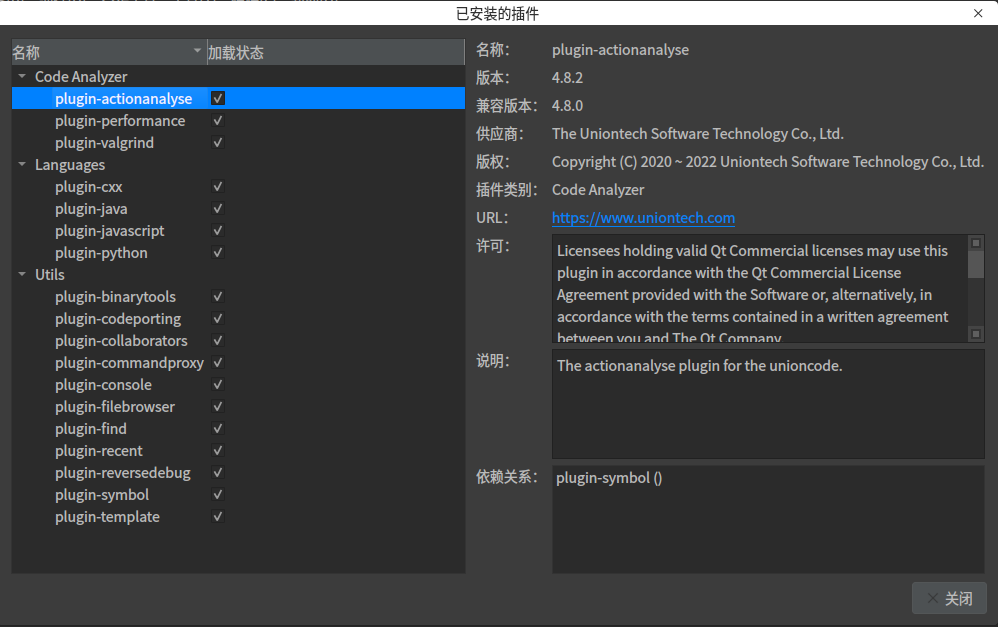
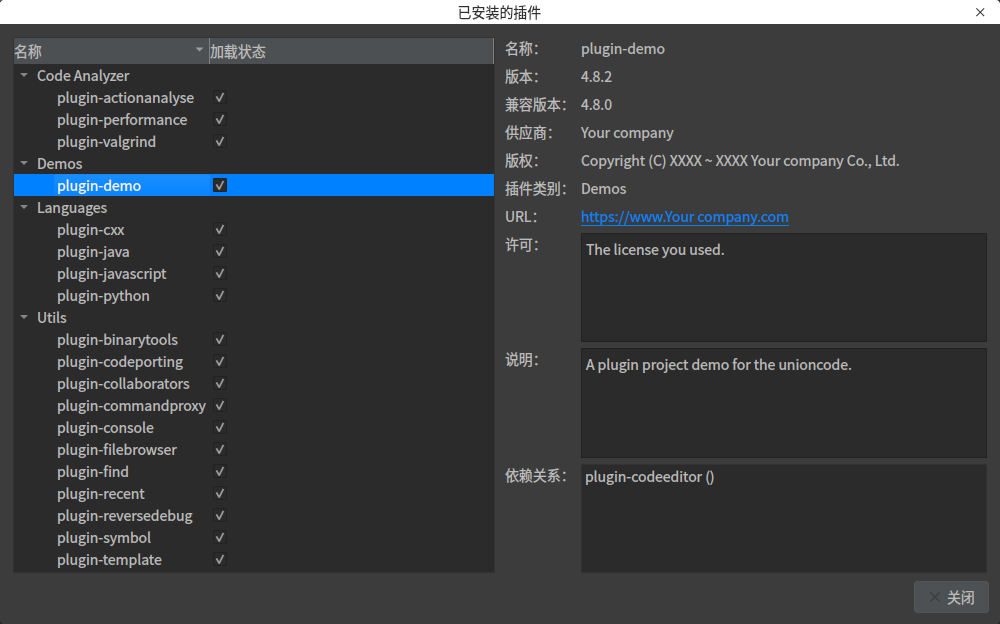
doc: add plugin demo in extended-guide doc
Log:

diff --git a/docs/extended-guide.md b/docs/extended-guide.md
@@ -18,9 +18,15 @@
 
 ### 1、插件模板
 
-这里以 Valgrind 插件的接入作为示例进行说明。
+这里以 deepin-unioncode 自带的插件模板作为示例进行说明。
 
 技术栈：**C/C++、Qt（5.11.3）、dpf(插件框架)**
+
+- 创建
+
+  打开菜单**文件** > **新建文件或工程** > **Projects** > **plugin**，填入工程名和存放路径，完成模板的创建。存放路径建议设置为 deepin-unioncode 源码的 src/plugins 目录，并在该目录下的 cmake 文件中添加模板工程。完成上述步骤后，新建的插件模板就显示到 IDE 的工程视图中。
+
+  ![](./rc-guide/plugin-demo.png)
 
 - CMakeLists.txt 文件
 
@@ -42,52 +48,13 @@ install(TARGETS ${PROJECT_NAME} LIBRARY DESTINATION ${PLUGIN_INSTALL_PATH}
 
 一般而言，上面几个库都需要链接，最后一行是将该插件安装到指定位置，才能被 `IDE` 发现调用。
 
-接下来是源代码的编写：
+- 元数据文件
 
-- 头文件
-
-```c++
-class Valgrind: public dpf::Plugin
-{
-    Q_OBJECT
-    Q_PLUGIN_METADATA(IID "org.deepin.plugin.unioncode" FILE "valgrind.json")
-public:
-    // 初始化函数，在异步线程中执行
-    virtual void initialize() override;
-    
-    // 启动函数，在主线程中执行。如果有界面操作，请在该函数内执行
-    virtual bool start() override;
-    
-    // 停止函数
-    virtual dpf::Plugin::ShutdownFlag stop() override;
-};
-```
-
-- 源文件
-
-```c++
-void Valgrind::initialize()
-{
-    // 异步初始化操作
-}
-
-bool Valgrind::start()
-{
-    // 启动插件，可在此函数中插入界面到IDE中 
-    return true;
-}
-
-dpf::Plugin::ShutdownFlag Valgrind::stop()
-{
-    return Sync;
-}
-```
-
-插件接入需要继承实现 dpf::Plugin 中的三个函数，还有一个条件是包含元数据，也就是上面的 varlgind.json，该文件需要包含到工程内，内容如下：
+还有一个条件是包含元数据，也就是上面的 demo.json，该文件需要包含到工程内，内容如下：
 
 ```json
 {
-    "Name" : "plugin-valgrind", // 插件名
+    "Name" : "plugin-demo", // 插件名
     "Version" : "4.8.2",  // 插件版本
     "CompatVersion" : "4.8.0", // 兼容版本
     "Vendor" : "XXX Co., Ltd.", // 提供商
@@ -95,8 +62,8 @@ dpf::Plugin::ShutdownFlag Valgrind::stop()
     "License" : [
         "XXX" // License声明
     ],
-    "Category" : "Code Analyzer",  // 分组策略
-    "Description" : "The codedetection plugin for the unioncode.",  // 描述
+    "Category" : "XXX",  // 分组策略
+    "Description" : "XXX.",  // 描述
     "UrlLink" : "XXX",  // 网页链接
     "Depends" : [
         {"Name" : "plugin-codeeditor"}  // 插件依赖，
@@ -106,11 +73,13 @@ dpf::Plugin::ShutdownFlag Valgrind::stop()
 
 完成上述操作后，进行编译安装，一个 `IDE` 插件的接入就已经完成。
 
-可以在菜单栏>"帮助">“关于插件...”查看是否被正确加载。
+可以在菜单栏**帮助** > **关于插件...** 查看是否被正确加载。
 
 ![](./rc-guide/plugin-manager.png)
 
+此时，可以在导航栏、菜单栏、底部窗口看到 Demo 控件：
 
+![](./rc-guide/demo-widget.png)
 
 ### 2、功能接口
 
@@ -125,7 +94,7 @@ services 是 IDE 提供的服务接口，该接口是通过动态绑定的形式
 | WindowService   | 窗口服务，用于嵌入插件界面到指定位置                         |
 | ProjectService  | 工程服务，可以获取工程相关的信息，比如工程目录、工程类型等   |
 | OptionService   | 选项服务，用于实现插件参数的统一配置，也就是 IDE 中的选项面板 |
-| LanguageService | 语言服务，调用该服务实现新语言的接入，如果有特殊的编译流程请结合BuilderService 和 DebuggerService 使用。注意，新语言的接入往往还需要添加对应的 LSP 和 DAP 后端。 |
+| LanguageService | 语言服务，调用该服务实现新语言的接入，如果有特殊的编译流程请结合 BuilderService 和 DebuggerService 使用。注意，新语言的接入往往还需要添加对应的 LSP 和 DAP 后端。 |
 
 以下针对每个服务进行说明：
 
@@ -221,9 +190,7 @@ services 是 IDE 提供的服务接口，该接口是通过动态绑定的形式
 | widget        | common/widget/*                      | 各类通用控件，比如折叠控件、输出面板等，插件可以基于这些控件进行自定义修改 |
 | util          | common/util/*                        | 工具类，比如获取安装路径、配置路径等；获取环境变量；下载工具等 |
 
-### 3、示例代码
 
-现阶段请参照 [src/plugins/valgrind](https://github.com/linuxdeepin/deepin-unioncode/tree/master/src/plugins/valgrind) 目录下的代码。后续会在模板中增加插件接入的模板。
 
 ## 三、模板工程添加规则
 
